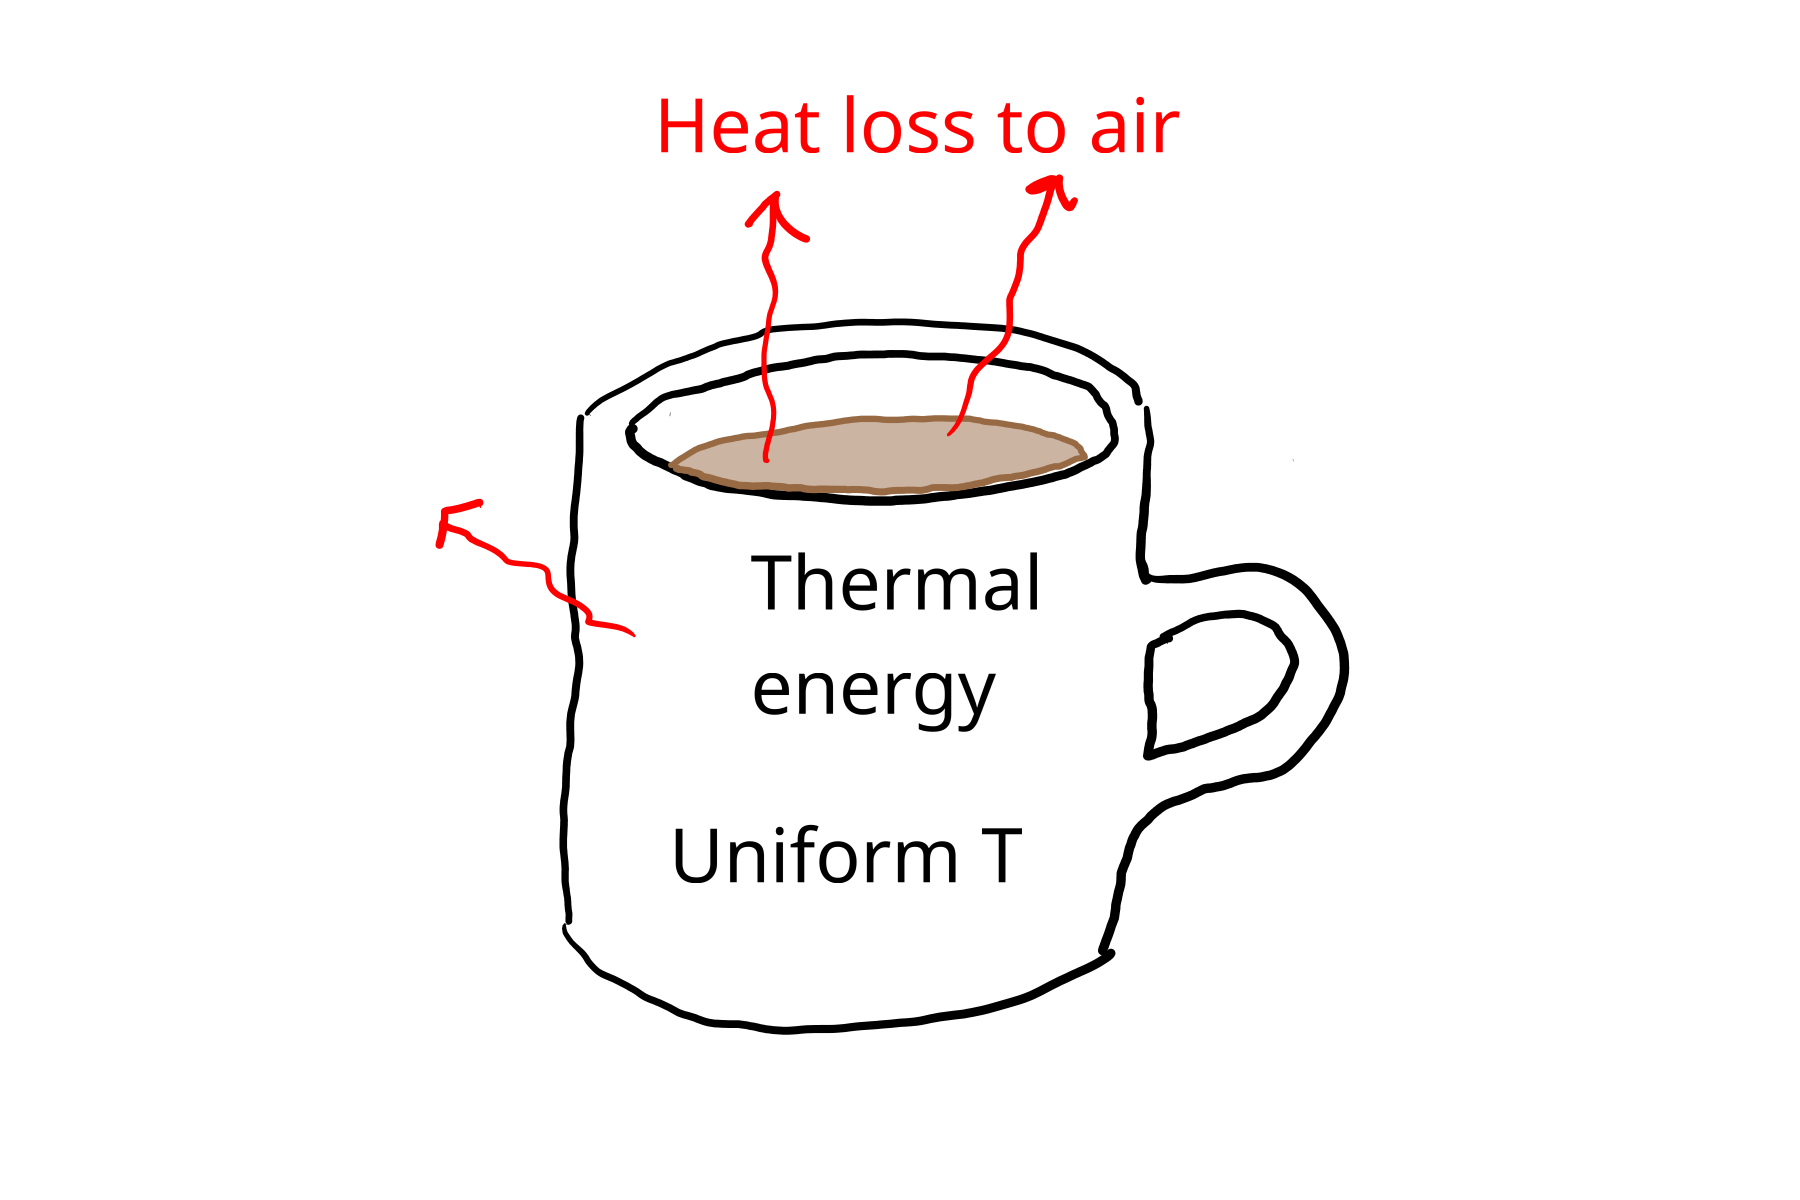
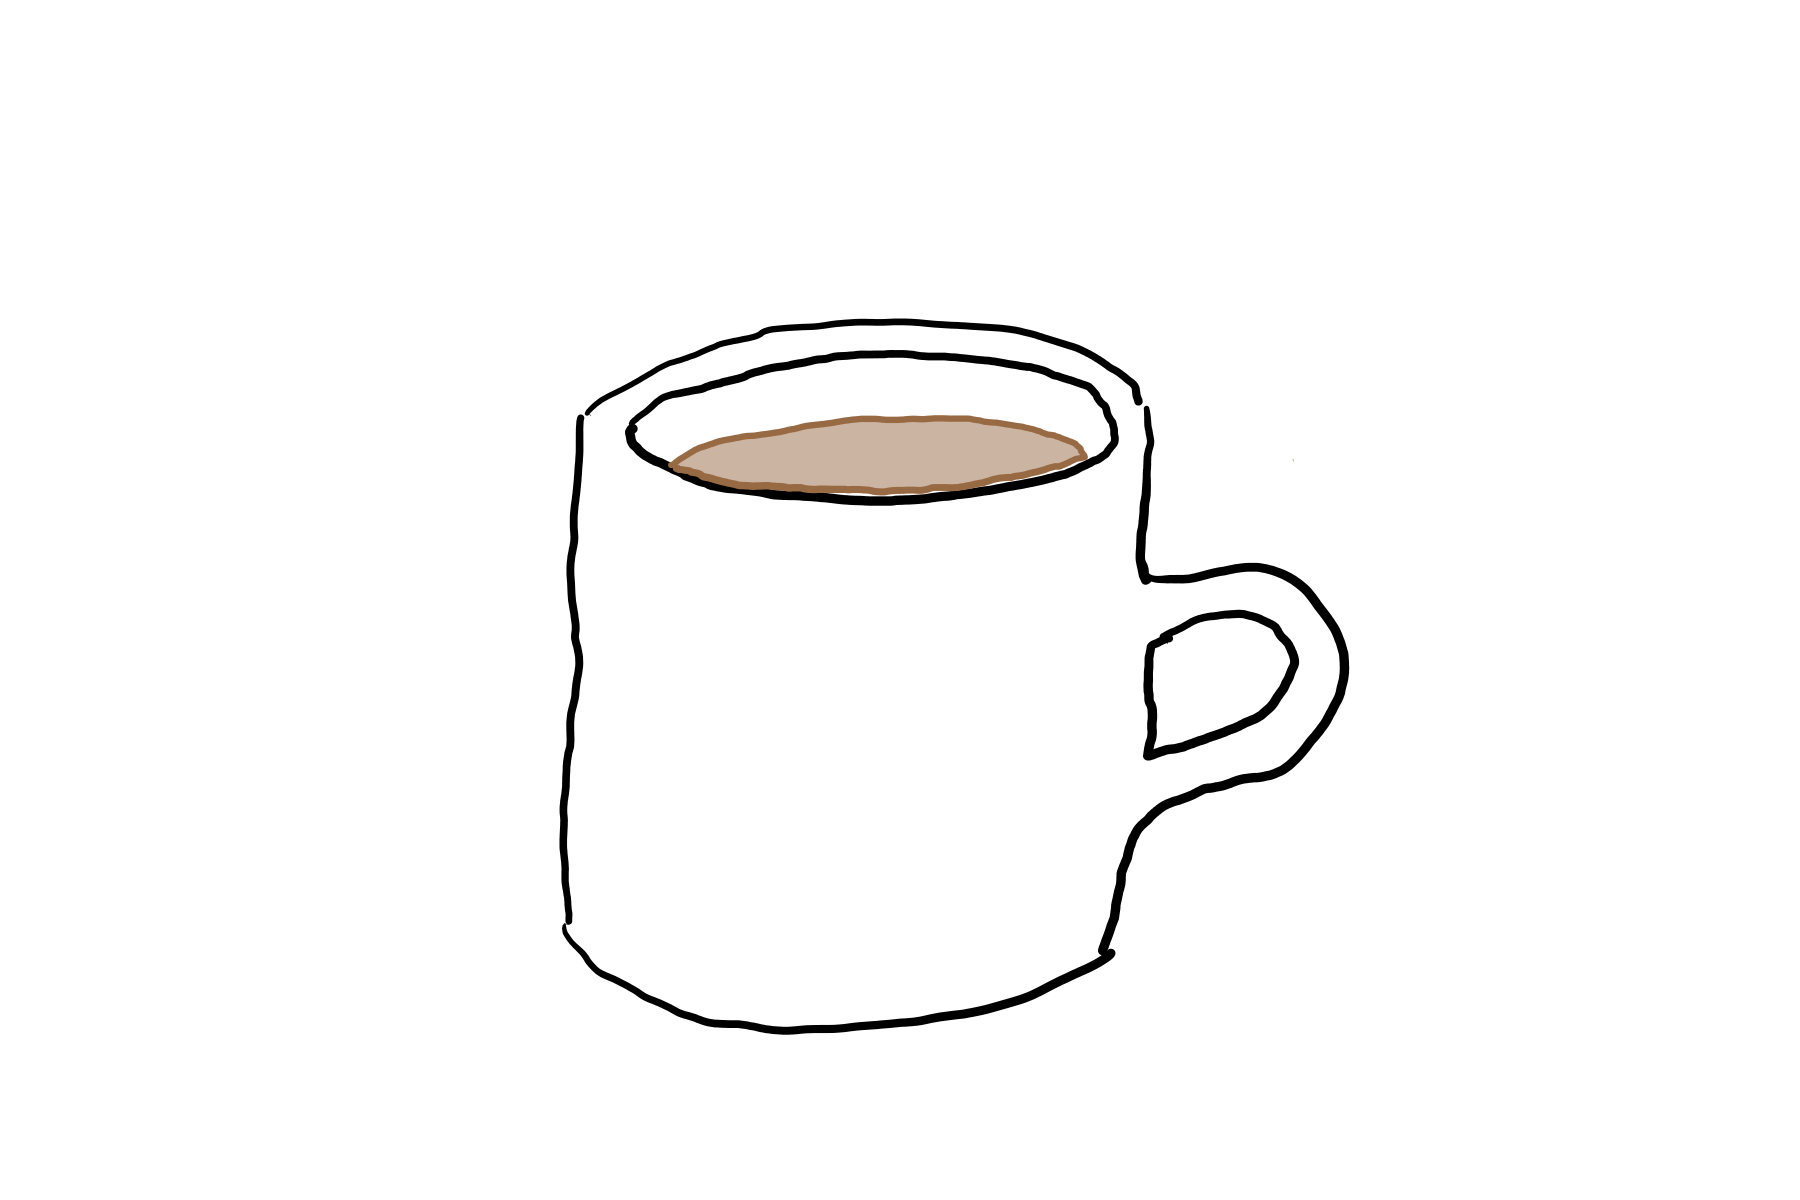
writing and more

diff --git a/docs/02_components_formulation.html b/docs/02_components_formulation.html
@@ -301,12 +301,13 @@ window.Quarto = {
    
   <ul>
   <li><a href="#basic-steps" id="toc-basic-steps" class="nav-link active" data-scroll-target="#basic-steps"><span class="header-section-number">2.1</span> Basic steps</a></li>
-  <li><a href="#sec-conservation" id="toc-sec-conservation" class="nav-link" data-scroll-target="#sec-conservation"><span class="header-section-number">2.2</span> Conservation equations</a></li>
-  <li><a href="#sec-constitutive" id="toc-sec-constitutive" class="nav-link" data-scroll-target="#sec-constitutive"><span class="header-section-number">2.3</span> Constitutive equations</a></li>
-  <li><a href="#sec-linking" id="toc-sec-linking" class="nav-link" data-scroll-target="#sec-linking"><span class="header-section-number">2.4</span> Linking equations</a></li>
-  <li><a href="#sec-formulation-steps" id="toc-sec-formulation-steps" class="nav-link" data-scroll-target="#sec-formulation-steps"><span class="header-section-number">2.5</span> Model formulation</a>
+  <li><a href="#sec-conceptual-model" id="toc-sec-conceptual-model" class="nav-link" data-scroll-target="#sec-conceptual-model"><span class="header-section-number">2.2</span> 1. Conceptual model</a></li>
+  <li><a href="#sec-conservation" id="toc-sec-conservation" class="nav-link" data-scroll-target="#sec-conservation"><span class="header-section-number">2.3</span> 2. Conservation equations</a></li>
+  <li><a href="#sec-constitutive" id="toc-sec-constitutive" class="nav-link" data-scroll-target="#sec-constitutive"><span class="header-section-number">2.4</span> Constitutive equations</a></li>
+  <li><a href="#sec-linking" id="toc-sec-linking" class="nav-link" data-scroll-target="#sec-linking"><span class="header-section-number">2.5</span> Linking equations</a></li>
+  <li><a href="#sec-formulation-steps" id="toc-sec-formulation-steps" class="nav-link" data-scroll-target="#sec-formulation-steps"><span class="header-section-number">2.6</span> Model formulation</a>
   <ul class="collapse">
-  <li><a href="#example-cooling-coffee" id="toc-example-cooling-coffee" class="nav-link" data-scroll-target="#example-cooling-coffee"><span class="header-section-number">2.5.1</span> Example: cooling coffee</a></li>
+  <li><a href="#example-cooling-coffee" id="toc-example-cooling-coffee" class="nav-link" data-scroll-target="#example-cooling-coffee"><span class="header-section-number">2.6.1</span> Example: cooling coffee</a></li>
   </ul></li>
   </ul>
 </nav>
@@ -338,7 +339,7 @@ window.Quarto = {
 <h2 data-number="2.1" class="anchored" data-anchor-id="basic-steps"><span class="header-section-number">2.1</span> Basic steps</h2>
 <p>The basic steps in model formulation are given below. In the following sections, these are described in detail.</p>
 <ol type="1">
-<li>Initial concepts and assumptions (system boundary, state variables, sketches, simplifications)</li>
+<li>Conceptual model, including sketch showing: system boundary, state variables, essential inputs</li>
 <li>Balance/conservation equations</li>
 <li>Constitutive equations (transfer or rate equations)</li>
 <li>Linking equations</li>
@@ -348,8 +349,37 @@ window.Quarto = {
 <li>Analytical or numerical solution</li>
 </ol>
 </section>
-<section id="sec-conservation" class="level2" data-number="2.2">
-<h2 data-number="2.2" class="anchored" data-anchor-id="sec-conservation"><span class="header-section-number">2.2</span> Conservation equations</h2>
+<section id="sec-conceptual-model" class="level2" data-number="2.2">
+<h2 data-number="2.2" class="anchored" data-anchor-id="sec-conceptual-model"><span class="header-section-number">2.2</span> 1. Conceptual model</h2>
+<p>A conceptual model should include several components:</p>
+<ul>
+<li><em>system boundary</em>,</li>
+<li><em>state variables</em>,</li>
+<li><em>external conditions</em> or <em>boundary conditions</em>,</li>
+<li>main <em>flows</em> of matter or energy,</li>
+<li><em>geometry</em>,</li>
+<li>main model <em>parameters</em>, and</li>
+<li>other key assumptions.</li>
+</ul>
+<p>Most of these can be effectively presented in a model sketch. You already encountered a sketch of a conceptual model in <a href="01_intro.html" class="quarto-xref"><span>Chapter 1</span></a> (<a href="01_intro.html#fig-coffee-concept" class="quarto-xref">Figure&nbsp;<span>1.2</span></a>). It is copied below (<a href="#fig-coffee-concept2" class="quarto-xref">Figure&nbsp;<span>2.1</span></a>).</p>
+<div id="fig-coffee-concept2" class="quarto-float quarto-figure quarto-figure-center anchored" alt="Sketch showing a conceptual model of coffee cooling. This time, notice all the components and labels.">
+<figure class="quarto-float quarto-float-fig figure">
+<div aria-describedby="fig-coffee-concept2-caption-0ceaefa1-69ba-4598-a22c-09a6ac19f8ca">
+<img src="drawings/coffee2.png" class="img-fluid figure-img" alt="Sketch showing a conceptual model of coffee cooling. This time, notice all the components and labels.">
+</div>
+<figcaption class="quarto-float-caption-bottom quarto-float-caption quarto-float-fig" id="fig-coffee-concept2-caption-0ceaefa1-69ba-4598-a22c-09a6ac19f8ca">
+Figure&nbsp;2.1: Conceptual model of coffee cooling.
+</figcaption>
+</figure>
+</div>
+<p>Let’s go through the list of conceptual model components, using <a href="#fig-coffee-concept2" class="quarto-xref">Figure&nbsp;<span>2.1</span></a> as an example.</p>
+<p>The system boundary exactly what is being modeled. In a sketch, it is common to represent the system boundary with a dashed line; a green dashed line is used in <a href="#fig-coffee-concept2" class="quarto-xref">Figure&nbsp;<span>2.1</span></a>. Here, the boundary shows that we are modeling the temperature of the coffee and the mug. Air temperature sits outside the boudary, implying that is a fixed external condition.</p>
+<p>The state variable in this model is the coffee temperature, or really, coffee + mug system temperature. For a lumped parameter model like this one, the only way our state variable can change is by flow of energy through the system boundary; here, that flow is shown by the wavy red arrows.</p>
+<p>We don’t have much about geometry in this sketch. That can be hard to show clearly in a sketch, and a lumped parameter model doesn’t really have any geometry. The <span class="math inline">\(A\)</span> that is shown in the model provides a hint that we are taking a simple approach here, and assuming surface temperature and so heat flux is uniform across the entire exposed surface, inclduing coffee and the mug. The uniform temperature, shown by the horizontal red line, also shows that we are dealing with a lumped parameter model here.</p>
+<p>We defined one main model parameter in the sketch–<span class="math inline">\(h\)</span>, the convectin heat transfer coefficient. Area <span class="math inline">\(A\)</span> is another <em>model input</em>, and one could argue about whether it should be called a parameter or not. We could add more details (Doesn’t the coffee + mug mass play a role? And specific heat capacity? Some of that will have to wait until <a href="04_heat_transfer.html" class="quarto-xref"><span>Chapter 4</span></a>.), but this is a sufficient sketch.</p>
+</section>
+<section id="sec-conservation" class="level2" data-number="2.3">
+<h2 data-number="2.3" class="anchored" data-anchor-id="sec-conservation"><span class="header-section-number">2.3</span> 2. Conservation equations</h2>
 <p><em>Conservation equations</em> or <em>balance equations</em> are a fundamental part of most models and all that we will consider, whether or not the equations are explicitly considered during model formulation. The word conservation simply means that something is preserved, i.e., not produced or destroyed. In our models, we will be concerned with conservation of <em>energy</em> and <em>matter</em>.</p>
 <p>We can use a “cookbook” formula as a starting point for both energy and matter conservation: <span id="eq-conservation"><span class="math display">\[
 \text{accumulation} = \text{in} - \text{out} + \text{generation} - \text{consumption}.
@@ -365,7 +395,7 @@ window.Quarto = {
 <img src="web-images/AU_WET1.png" class="img-fluid figure-img" alt="Diagram of a lake model.">
 </div>
 <figcaption class="quarto-float-caption-bottom quarto-float-caption quarto-float-fig" id="fig-wet1-caption-0ceaefa1-69ba-4598-a22c-09a6ac19f8ca">
-Figure&nbsp;2.1: Conceptual model of the Aarhus University WET model (https://projects.au.dk/wet/about-qwet).
+Figure&nbsp;2.2: Conceptual model of the Aarhus University WET model (https://projects.au.dk/wet/about-qwet).
 </figcaption>
 </figure>
 </div>
@@ -378,7 +408,7 @@ Figure&nbsp;2.1: Conceptual model of the Aarhus University WET model (https://pr
 \end{aligned}                                                                                                                                                                         
 \]</span></p>
 <p>There highlights an important point: that conservation equations apply to a specific state variable and a specific <em>domain</em>. This clarity is necessary when developing a model. In the WET model example, the state variable could be the water column total N concentration, or perhaps the inorganic N concentration, or the inorganic N mass. We don’t know for sure, but if we were developing or even applying this model, we must! Units could be <span class="math inline">\(\kgpmcps\)</span> or <span class="math inline">\(\kgps\)</span>.</p>
-<p>And the domain for the WET model (<a href="#fig-wet1" class="quarto-xref">Figure&nbsp;<span>2.1</span></a>) might be the entire water volume of a lake, if we were taking a lumped-parameter approach with this model. However, the domain could also be a single <em>cell</em> or <em>node</em> within the lake, if we were taking a spatial approach. During model development, it is common for the domain to be a <em>control volume</em>, which is some hypothetical small volume within the larger model domain. This can be convenient for GE development.</p>
+<p>And the domain for the WET model (<a href="#fig-wet1" class="quarto-xref">Figure&nbsp;<span>2.2</span></a>) might be the entire water volume of a lake, if we were taking a lumped-parameter approach with this model. However, the domain could also be a single <em>cell</em> or <em>node</em> within the lake, if we were taking a spatial approach. During model development, it is common for the domain to be a <em>control volume</em>, which is some hypothetical small volume within the larger model domain. This can be convenient for GE development.</p>
 <p>Every state variable in a model needs a conservation equation. Fortunately, most of the models we’ll cover in this book have a single state variable and so a single conservation equation. For the simple coffee model, the state variable is the coffee temperature and the domain is the entire cup of coffee. Units for our conservation equation, <a href="#eq-coffee-conservation" class="quarto-xref">Equation&nbsp;<span>2.2</span></a>, should be W, i.e., <span class="math inline">\(\Jps\)</span>.</p>
 <!-- Fundamental component of all models.
      Apply to energy and mass.
@@ -386,33 +416,37 @@ Figure&nbsp;2.1: Conceptual model of the Aarhus University WET model (https://pr
      Terms can be expanded; unused terms are typically dropped.
      Domain: whole system (0D), control volume (symbolic), or cell/node (1D+). -->
 </section>
-<section id="sec-constitutive" class="level2" data-number="2.3">
-<h2 data-number="2.3" class="anchored" data-anchor-id="sec-constitutive"><span class="header-section-number">2.3</span> Constitutive equations</h2>
+<section id="sec-constitutive" class="level2" data-number="2.4">
+<h2 data-number="2.4" class="anchored" data-anchor-id="sec-constitutive"><span class="header-section-number">2.4</span> Constitutive equations</h2>
 <p><em>Constitutive equations</em> describe how matter or energy are transferred. We will need a constitutive equation for each term in the model conservation equation. Figuring out what equations to use here requires familiarity with the different options. We’ll take a look at just a couple here and present more in <a href="04_heat_transfer.html" class="quarto-xref"><span>Chapter 4</span></a>, <a href="05_mass_transfer.html" class="quarto-xref"><span>Chapter 5</span></a>, and <a href="06_reactions_microbiology.html" class="quarto-xref"><span>Chapter 6</span></a>. These equations typically have a name like “someone’s law”. In general, constitutive equations include a difference or derivative and a proportionality constant on the right-hand side (RHS). The left-hand side (LHS) is usually some kind of <em>flux</em>, which is a flow rate per unit cross-sectional area.</p>
 <p>For our coffee model, we only need one constitutive equation (take a look at <a href="#eq-coffee-conservation" class="quarto-xref">Equation&nbsp;<span>2.2</span></a> to see why), and the appropriate one is called <em>Newton’s law of cooling</em>. It is:</p>
-<p><span id="eq-nlc1"><span class="math display">\[
+<p><span id="eq-coffee-constitutive"><span class="math display">\[
 q = h \cdot (T_s - T_\infty),
 \tag{2.3}\]</span></span></p>
 <p>where <span class="math inline">\(q=\)</span> <em>heat flux</em> (<span class="math inline">\(\Wpms\)</span>), <span class="math inline">\(h=\)</span> <em>convection heat transfer coefficient</em> (<span class="math inline">\(\WpmspK\)</span>), <span class="math inline">\(T_s=\)</span> surface temperature of an object (K or <span class="math inline">\(\degC\)</span>, either is fine because we are dealing with a temperature difference, not the absolute value), and <span class="math inline">\(T_\infty=\)</span> temperature of the surrounding fluid at some point where the object does not affect it. Applied to our cooling coffee system, <span class="math inline">\(T_s=\)</span> the coffee temperature, uniform throughout, and <span class="math inline">\(T_{\infty}=\)</span> air temperature.</p>
-<p>Constitutive equations depend on the state of the system and material properties. Take a look at <a href="#eq-nlc1" class="quarto-xref">Equation&nbsp;<span>2.3</span></a>. The “state of the system” component is clear in the presence of <span class="math inline">\(T_s\)</span>, which is the coffee temperature here. And the heat transfer coefficient <span class="math inline">\(h\)</span> depends on the properties of air–it would be very different if the coffee were immersed in water!</p>
+<p>Constitutive equations depend on the state of the system and material properties. Take a look at <a href="#eq-coffee-constitutive" class="quarto-xref">Equation&nbsp;<span>2.3</span></a>. The “state of the system” component is clear in the presence of <span class="math inline">\(T_s\)</span>, which is the coffee temperature here. And the heat transfer coefficient <span class="math inline">\(h\)</span> depends on the properties of air–it would be very different if the coffee were immersed in water!</p>
 <!-- Why rates matter.
      Brief preview with Fourier's law -- full treatment in @sec-heat.
      CE often has a derivative or difference on the RHS.
      CE depends on material properties and state variables. -->
 </section>
-<section id="sec-linking" class="level2" data-number="2.4">
-<h2 data-number="2.4" class="anchored" data-anchor-id="sec-linking"><span class="header-section-number">2.4</span> Linking equations</h2>
-<p><em>Linking equations</em> are those relationships that are sometimes needed to connect or related different physical quantities included in the model. Not all models need linking equations. Our simple coffee model does though.</p>
+<section id="sec-linking" class="level2" data-number="2.5">
+<h2 data-number="2.5" class="anchored" data-anchor-id="sec-linking"><span class="header-section-number">2.5</span> Linking equations</h2>
+<p><em>Linking equations</em> are those relationships that are sometimes needed to connect or related different physical quantities included in the model. Not all models need linking equations. Our simple coffee model does though! Why? Well, our state variable is temperature <span class="math inline">\(T\)</span>, but our conservation equation, <a href="#eq-coffee-conservation" class="quarto-xref">Equation&nbsp;<span>2.2</span></a>, is for energy. The same is true for our constitutive equation, <a href="#eq-coffee-constitutive" class="quarto-xref">Equation&nbsp;<span>2.3</span></a>, which has <span class="math inline">\(T\)</span> on the RHS, but only energy on the LHS. So somehow we need to link the two, temperature and energy. To do so, we need to know something about heat energy and thermal temperature, but even without this knowledge we might guess that the two are directly proporational, i.e., <span class="math inline">\(\Delta T = c \cdot \Delta Q\)</span>, where <span class="math inline">\(c\)</span> is some arbitrary constant. In fact this is correct, but <span class="math inline">\(c\)</span> depends on the material and the quantity present. So here, the linking equation that we need is:</p>
+<p><span id="eq-coffee-linking"><span class="math display">\[
+\Delta Q = c_p \cdot m \codt \Delta T,
+\tag{2.4}\]</span></span></p>
+<p>where <span class="math inline">\(\Delta Q=\)</span> a change in thermal energy (J), <span class="math inline">\(c_p=\)</span> a new parameter called <em>specific heat capacity</em>, <span class="math inline">\(m=\)</span> the material mass, and <span class="math inline">\(\Delta T=\)</span> the corresponding change in material temperature.</p>
 <!-- Connect different physical quantities (e.g., energy and temperature).
      Needed when the state variable in the balance differs from the variable of interest. -->
 </section>
-<section id="sec-formulation-steps" class="level2" data-number="2.5">
-<h2 data-number="2.5" class="anchored" data-anchor-id="sec-formulation-steps"><span class="header-section-number">2.5</span> Model formulation</h2>
+<section id="sec-formulation-steps" class="level2" data-number="2.6">
+<h2 data-number="2.6" class="anchored" data-anchor-id="sec-formulation-steps"><span class="header-section-number">2.6</span> Model formulation</h2>
 <!-- Show how balance + constitutive + linking equations combine to give the GE.
      Scope here: 0D (lumped-parameter) models only.
      Approach for 1D+ models (start from full GE, then simplify) introduced in @sec-spatial. -->
-<section id="example-cooling-coffee" class="level3" data-number="2.5.1">
-<h3 data-number="2.5.1" class="anchored" data-anchor-id="example-cooling-coffee"><span class="header-section-number">2.5.1</span> Example: cooling coffee</h3>
+<section id="example-cooling-coffee" class="level3" data-number="2.6.1">
+<h3 data-number="2.6.1" class="anchored" data-anchor-id="example-cooling-coffee"><span class="header-section-number">2.6.1</span> Example: cooling coffee</h3>
 <!-- Bring the coffee example through all steps to a governing equation.
      Solution in @sec-solving. -->
 

diff --git a/docs/01_intro.html b/docs/01_intro.html
@@ -385,19 +385,40 @@ window.Quarto = {
 <p>There are multiple ways to group models, and the categories are useful for understanding, developing, and explaining models. The different classification groups are not exclusive, so a single model could be a lumped parameter analytical model.</p>
 <section id="conceptual-mathematical-and-computer-models" class="level3" data-number="1.2.1">
 <h3 data-number="1.2.1" class="anchored" data-anchor-id="conceptual-mathematical-and-computer-models"><span class="header-section-number">1.2.1</span> Conceptual, mathematical, and computer models</h3>
-<p>Conceptual, mathematical, and computer models are not really levels in a model classification scheme, but terms for the stage of model development. A <em>conceptual model</em> is some kind of qualitative description of a system. Conceptual models can be explained and summarized with the help of a good sketch. For example, let’s say we want to develop a model to describe how the coffee in a mug cools over time. Our conceptual model could be summarized in the sketch below.</p>
-<p><img src="drawings/coffee1.png" id="fig-coffee" class="img-fluid" alt="Sketch showing a conceptual model of coffee cooling."><br>
-In our conceptual model there is some quantity of heat energy is present in the coffee and mug, and that amount determines its temperature. We know from experience that the coffee cools over time, meaning that heat energy is lost. In our model, the rate of heat loss depends on the temperature of the coffee and mug, the ambient temperature, and some heat transfer parameter. Our model does not explicitly include heat transfer within the coffee, or separate consideration of different routes of heat transfer, such as from the exposed coffee surface or through the wall or bottom of the mug. A conceptual model and a sketch is a good place to start most model formulation exercises.</p>
+<p>Conceptual, mathematical, and computer models are not really levels in a model classification scheme, but terms for the stage of model development. A <em>conceptual model</em> is some kind of qualitative description of a system. Conceptual models can be explained and summarized with the help of a good sketch. For example, let’s say we want to develop a model to describe how the coffee in a mug (<a href="#fig-coffee" class="quarto-xref">Figure&nbsp;<span>1.1</span></a>) cools over time.</p>
+<div id="fig-coffee" class="quarto-float quarto-figure quarto-figure-center anchored" alt="Sketch showing a cup of coffee.">
+<figure class="quarto-float quarto-float-fig figure">
+<div aria-describedby="fig-coffee-caption-0ceaefa1-69ba-4598-a22c-09a6ac19f8ca">
+<img src="drawings/coffee1.png" class="img-fluid figure-img" alt="Sketch showing a cup of coffee.">
+</div>
+<figcaption class="quarto-float-caption-bottom quarto-float-caption quarto-float-fig" id="fig-coffee-caption-0ceaefa1-69ba-4598-a22c-09a6ac19f8ca">
+Figure&nbsp;1.1: A cooling cup of coffee, losing heat to the surrounding air.
+</figcaption>
+</figure>
+</div>
+<p>Our conceptual model could be summarized in the sketch below (<a href="#fig-coffee-concept" class="quarto-xref">Figure&nbsp;<span>1.2</span></a>).</p>
+<div id="fig-coffee-concept" class="quarto-float quarto-figure quarto-figure-center anchored" alt="Sketch showing a conceptual model of coffee cooling.">
+<figure class="quarto-float quarto-float-fig figure">
+<div aria-describedby="fig-coffee-concept-caption-0ceaefa1-69ba-4598-a22c-09a6ac19f8ca">
+<img src="drawings/coffee2.png" class="img-fluid figure-img" alt="Sketch showing a conceptual model of coffee cooling.">
+</div>
+<figcaption class="quarto-float-caption-bottom quarto-float-caption quarto-float-fig" id="fig-coffee-concept-caption-0ceaefa1-69ba-4598-a22c-09a6ac19f8ca">
+Figure&nbsp;1.2: Conceptual model of coffee cooling.
+</figcaption>
+</figure>
+</div>
+<p>In our conceptual model there is some quantity of heat energy is present in the coffee and mug, and that amount determines its temperature. We know from experience that the coffee cools over time, meaning that heat energy is lost. In our model, the rate of heat loss depends on the temperature of the coffee and mug, the ambient temperature, and some heat transfer parameter. Our model does not explicitly include heat transfer within the coffee, or separate consideration of different routes of heat transfer, such as from the exposed coffee surface or through the wall or bottom of the mug. A conceptual model and a sketch is a good place to start most model formulation exercises.</p>
 <p>Formulation of a <em>mathematical model</em> is typically the objective of a model formulation exercise. A mathematical model for our coffee example could be:</p>
 <p><span id="eq-coffee-ge1"><span class="math display">\[
 \frac{dT}{dt} = c \cdot (T - T_{air}).
 \tag{1.1}\]</span></span></p>
-<p><a href="#eq-coffee-ge1" class="quarto-xref">Equation&nbsp;<span>1.1</span></a> is actually a <em>differential equation</em> because it describes the rate of change in coffee temperature <span class="math inline">\(T\)</span> over time. It is also the <em>governing equation</em> or <em>GE</em> for this model, or that complete equation that describes the system. Governing equations typically need to be <em>solved</em> in order for a model to be useful. In some cases a solution can be found using only mathematical tools and expressed as a simple <em>closed-form</em> equation. Eq. (1) is one such example, and a solution is:</p>
+<p><a href="#eq-coffee-ge1" class="quarto-xref">Equation&nbsp;<span>1.1</span></a> is actually a <em>differential equation</em> (<em>DE</em>) because it describes the rate of change in coffee temperature <span class="math inline">\(T\)</span> over time. In particular, it is an <em>ordinary differential equation</em> (<em>ODE</em>) because the dependent variable (temperature) depends on only a single independent variable (time).</p>
+<p><a href="#eq-coffee-ge1" class="quarto-xref">Equation&nbsp;<span>1.1</span></a> is also the <em>governing equation</em> or <em>GE</em> for this model, or that complete equation that describes the system. Governing equations typically need to be <em>solved</em> in order for a model to be useful. In some cases a solution can be found using only mathematical tools and expressed as a simple <em>closed-form</em> equation. Eq. (1) is one such example, and a solution is:</p>
 <p><span id="eq-coffee-sol1"><span class="math display">\[
 T(t) = (T_0 - T_{air}) \cdot e^{(-c \cdot t)} + T_{air}.
 \tag{1.2}\]</span></span></p>
 <p>We saw a <em>computer model</em> above. It is a piece of computer software that runs the model. Creating a computer model means <em>implementing</em> a mathematical model. We could also say that development of a software model means <em>programming</em> a mathematical model. Here is an implementation of the coffee model, i.e., a computer model for cooling coffee.</p>
-<div id="93b284f8" class="cell" data-execution_count="1">
+<div id="c29b35c8" class="cell" data-execution_count="1">
 <div class="code-copy-outer-scaffold"><div class="sourceCode cell-code" id="cb1"><pre class="sourceCode python code-with-copy"><code class="sourceCode python"><span id="cb1-1"><a href="#cb1-1" aria-hidden="true" tabindex="-1"></a><span class="co"># Import modules</span></span>
 <span id="cb1-2"><a href="#cb1-2" aria-hidden="true" tabindex="-1"></a><span class="im">import</span> numpy <span class="im">as</span> np</span>
 <span id="cb1-3"><a href="#cb1-3" aria-hidden="true" tabindex="-1"></a><span class="im">import</span> matplotlib.pyplot <span class="im">as</span> plt</span>

diff --git a/docs/index.html b/docs/index.html
@@ -305,7 +305,9 @@ MathJax = {
 
 <section id="preface" class="level1 unnumbered">
 <h1 class="unnumbered">Preface</h1>
-<p>This book is designed for the course “Modelling” in the Bachelor programmes in Biotechnology and Chemical Engineering at the Department of Biological and Chemical Engineering, Aarhus University. Its primary aim is to introduce students to heat and mass transfer modelling through examples and case studies closely connected to real challenges in biological and chemical engineering. The book emphasizes both the underlying physical principles and their practical implementation. All computational examples are implemented using Python, enabling students to develop transferable skills in scientific programming while exploring key modelling concepts.</p>
+<p>This book is a course textbook for “Modelling” in the bachelor programs in Biotechnology and Chemical Engineering at the Department of Biological and Chemical Engineering, Aarhus University. <strong>The book is currently under development</strong>, with expected completion by August 2026.</p>
+<p>The book emphasizes both the underlying physical principles and their practical implementation. All computational examples are implemented using Python, enabling students to develop transferable skills in scientific programming while exploring key modelling concepts.</p>
+<p>This book is freely available under the Creative Commons Attribution 4.0 License, and code examples are under the MIT License. See LICENSE.md in the <a href="https://github.com/AU-BCE-EE/modelling-course-book">source repository</a> for details.</p>
 
 
 </section>

diff --git a/troubleshooting.md b/troubleshooting.md
@@ -1,0 +1,27 @@
+# Quarto troubleshooting tips
+
+## Cross-references not resolving
+
+- **Blank lines:** Quarto requires a blank line before and after a figure, table, or equation block for it to be parsed as a block element. Missing blank lines are easy to miss if there are trailing spaces on the preceding line.
+- **Missing image file:** A cross-reference to a figure whose image file doesn't exist will not resolve. Check that the file path is correct and the file has been exported.
+- **Build errors in other chapters:** A rendering error in any chapter can prevent cross-references from resolving book-wide. Check the `quarto render` output for errors.
+
+## MathJax macros not working
+
+- **Digits in macro names:** MathJax macro names must be letters only. A name like `\kgpm3ps` will silently fail because MathJax stops parsing at the `3`. Use all-letter names (e.g., `\kgpmcps`).
+- **Wrong config key:** The `mathjax-config` key in `_quarto.yml` is not valid. Use `include-in-header` with an inline `<script>` block instead (see `_quarto.yml`).
+
+## Equation labels
+
+- **Label placement:** The equation label must be on the same line as the closing `$$`, separated by a space:
+  ```
+  $$
+  \frac{dT}{dt} = c \cdot (T - T_{air})
+  $$ {#eq-my-label}
+  ```
+  Putting `{#eq-my-label}` on its own line below `$$` will break the reference.
+
+## Figures
+
+- **Quotes in captions:** Do not wrap figure captions in quotes inside `![...]()`. The quotes will appear literally in the rendered output.
+- **Multi-page xopp exports:** If a Xournal++ file has multiple pages, `xopp2png.sh` will produce `name-1.png`, `name-2.png`, etc. rather than `name.png`. Keep drawings to a single page.

diff --git a/LICENSE.md b/LICENSE.md
@@ -1,0 +1,19 @@
+# License
+
+## Text and figures
+
+This work is licensed under the Creative Commons Attribution 4.0 International License (CC BY 4.0).
+
+You are free to share (copy and redistribute) and adapt (remix, transform, and build upon) this material for any purpose, even commercially, provided you give appropriate credit to the authors, provide a link to the license, and indicate if changes were made.
+
+Full license text: https://creativecommons.org/licenses/by/4.0/legalcode
+
+## Code
+
+All code examples in this book are licensed under the MIT License:
+
+Permission is hereby granted, free of charge, to any person obtaining a copy of this code, to deal in the code without restriction, including without limitation the rights to use, copy, modify, merge, publish, distribute, sublicense, and/or sell copies, and to permit persons to whom the code is furnished to do so, subject to the following conditions:
+
+The above copyright notice and this permission notice shall be included in all copies or substantial portions of the code.
+
+THE CODE IS PROVIDED "AS IS", WITHOUT WARRANTY OF ANY KIND, EXPRESS OR IMPLIED.